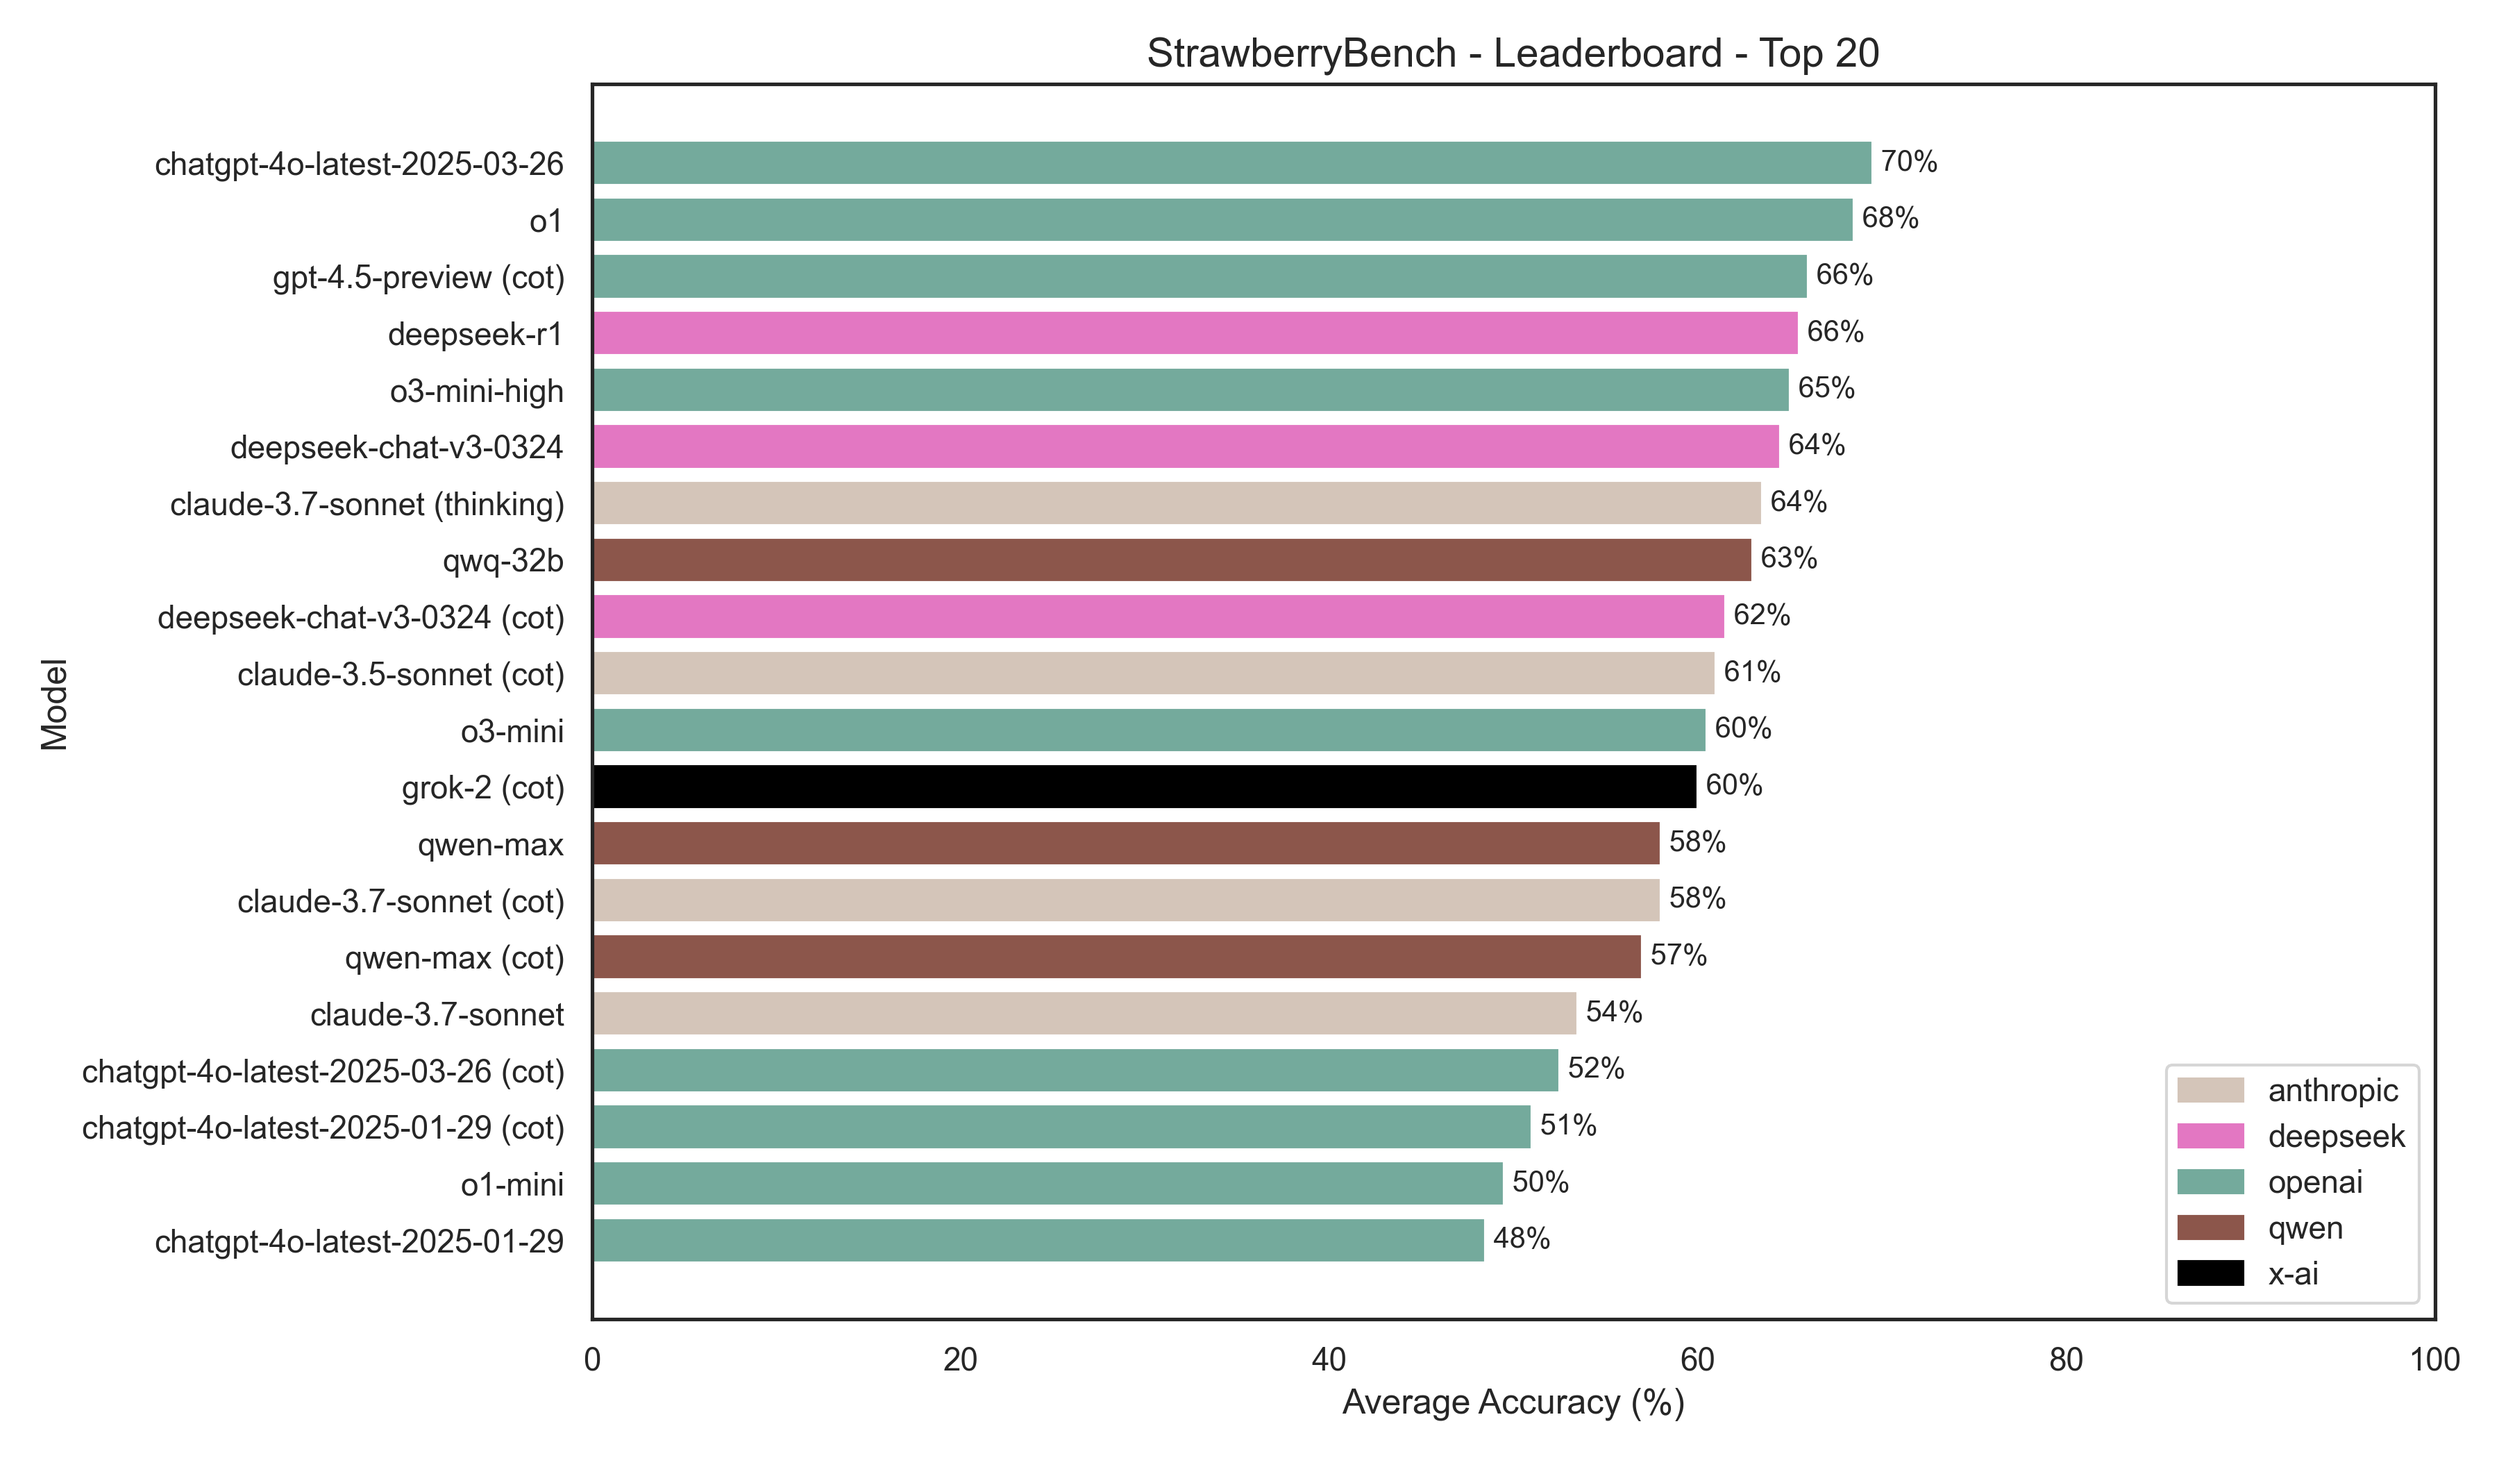
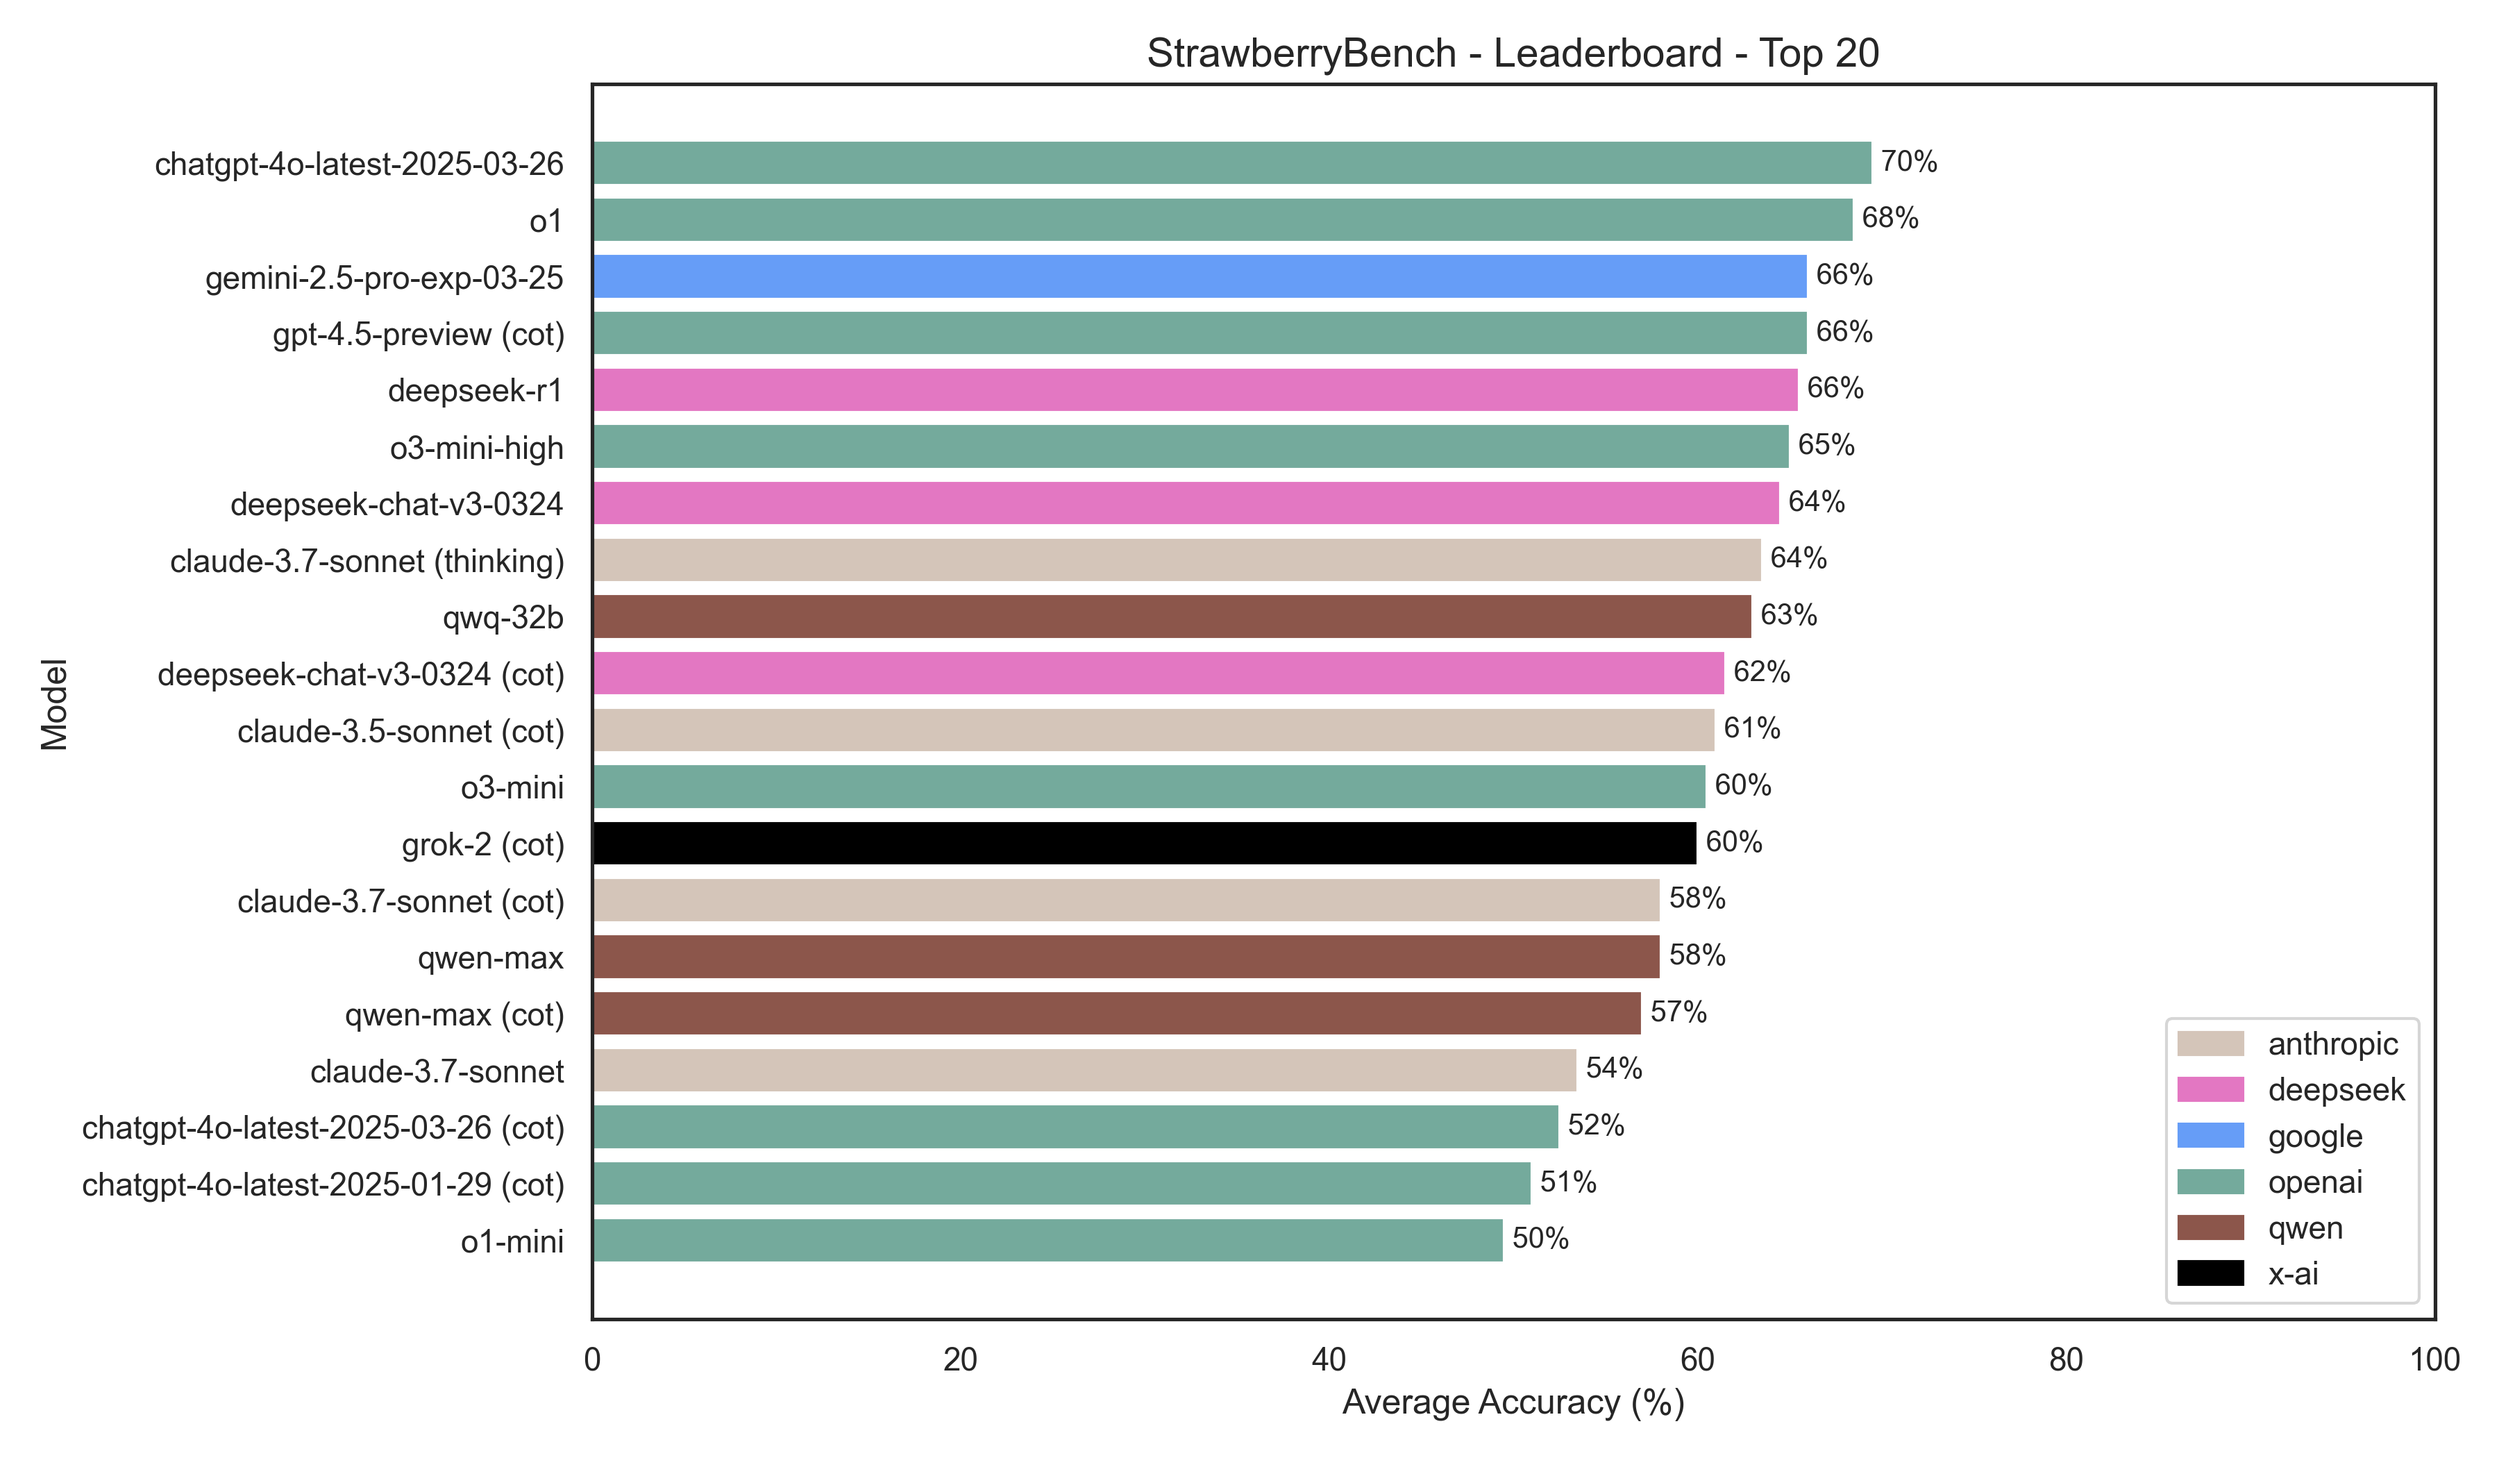
Add gemini 2.5 pro exp

Changed region(s): [[0.0311, 0.1548, 0.7467, 0.8667], [0.0311, 0.8048, 0.2178, 0.8667], [0.8711, 0.681, 0.9644, 0.8048]]

diff --git a/config.py b/config.py
@@ -49,7 +49,7 @@ MODELS = [
     # { "name": "deepseek/deepseek-r1", "client": "openrouter", "type": "reasoning" },
     # { "name": "deepseek/deepseek-r1-distill-llama-70b", "client": "openrouter", "type": "reasoning" },
     # { "name": "google/gemini-2.0-flash-thinking-exp-01-21", "client": "google_vertex", "type": "reasoning", "settings": { "rate_limit": 10 } },
-    # { "name": "google/gemini-2.5-pro-exp-03-25", "client": "google_studio", "type": "reasoning", "settings": {"rate_limit": 4} },
+    # { "name": "google/gemini-2.5-pro-exp-03-25", "client": "google_vertex", "type": "reasoning", "settings": {"rate_limit": 15} },
     # { "name": "openai/o1", "client": "openai", "type": "reasoning" },
     # { "name": "openai/o1-mini", "client": "openai", "type": "reasoning" },
     # { "name": "openai/o3-mini", "client": "openai", "type": "reasoning" },
